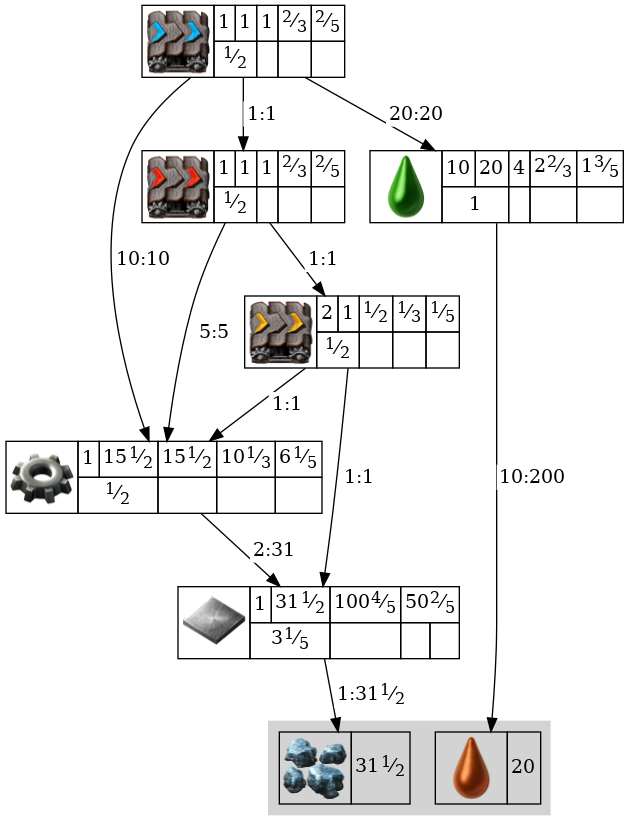
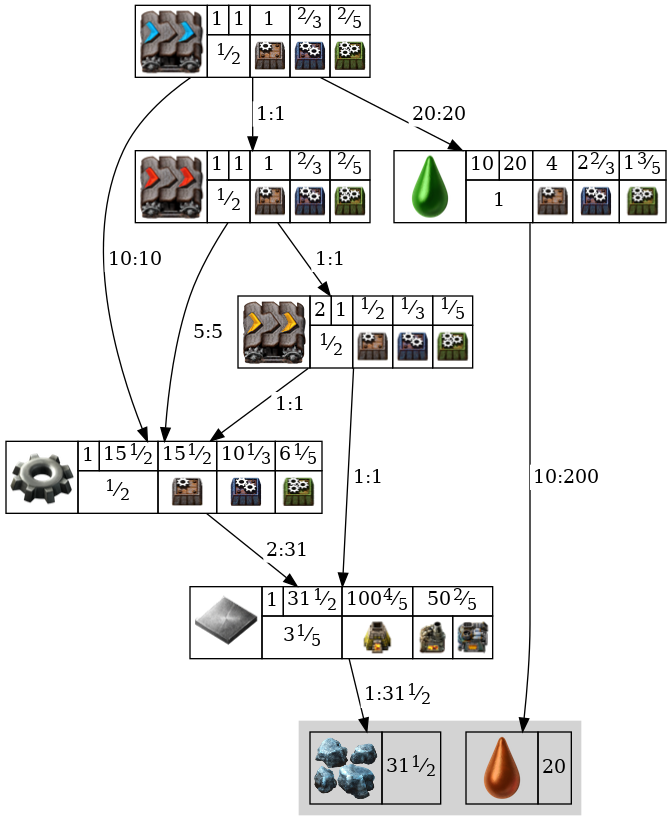
fix

Changed region(s): [[0.0, 0.0, 0.9968, 0.9928], [0.725, 0.8424, 0.876, 0.9928]]

diff --git a/index.ts b/index.ts
@@ -113,6 +113,17 @@ class FactorioLib {
 		// eslint-disable-next-line no-empty-function
 	) { }
 
+	async init() {
+		await Promise.all([
+			'Stone_furnace',
+			'Steel_furnace',
+			'Electric_furnace',
+			'Assembling_machine_1',
+			'Assembling_machine_2',
+			'Assembling_machine_3',
+		].map((name) => downloadImage(`https://wiki.factorio.com/images/thumb/${name}.png/32px-${name}.png`, this.prevPath)));
+	}
+
 	async addElementWithChildren(newURL: string): Promise<void> {
 		if (this.lib.has(newURL)) return;
 
@@ -256,11 +267,17 @@ npx ts-node .
 \`\`\`
 `;
 
+const verbose = (...message: any[]) => {
+	if (Number(process.env.VERBOSE)) {
+		console.log(...message);
+	}
+};
+
 const calcResult = async (url: string) => {
 	await factorioLib.addElementWithChildren(url);
-	console.dir(factorioLib, { depth: null });
+	verbose(factorioLib, { depth: null });
 	const g = factorioLib.makeGraphvis(url);
-	console.log(g.to_dot());
+	verbose(g.to_dot());
 	const id = factorioLib.lib.get(url)?.id || 'test';
 	const filename = `sp/${id}.png`;
 	g.output(
@@ -268,17 +285,22 @@ const calcResult = async (url: string) => {
 		filename,
 		console.error,
 	);
-	readme += `### ${id}\n![${id}](${filename})\n---\n`;
+	readme += `### ${id}\n[wiki](${url})\n![${id}](${filename})\n---\n`;
 };
 
 (async () => {
 	console.time('all');
+	console.time('init');
+	await factorioLib.init();
+	console.timeEnd('init');
 	for (const url of allURL) {
 		console.time(url);
 		// eslint-disable-next-line no-await-in-loop
 		await calcResult(url);
 		console.timeEnd(url);
 	}
+	console.time('readme');
 	fs.writeFileSync('README.md', readme);
+	console.timeEnd('readme');
 	console.timeEnd('all');
 })();

diff --git a/README.md b/README.md
@@ -3,53 +3,70 @@
 npx ts-node .
 ```
 ### Automation_science_pack
+[wiki](https://wiki.factorio.com/Automation_science_pack/ru)
 ![Automation_science_pack](sp/Automation_science_pack.png)
 ---
 ### Logistic_science_pack
+[wiki](https://wiki.factorio.com/Logistic_science_pack/ru)
 ![Logistic_science_pack](sp/Logistic_science_pack.png)
 ---
 ### Military_science_pack
+[wiki](https://wiki.factorio.com/Military_science_pack/ru)
 ![Military_science_pack](sp/Military_science_pack.png)
 ---
 ### Chemical_science_pack
+[wiki](https://wiki.factorio.com/Chemical_science_pack/ru)
 ![Chemical_science_pack](sp/Chemical_science_pack.png)
 ---
 ### Production_science_pack
+[wiki](https://wiki.factorio.com/Production_science_pack/ru)
 ![Production_science_pack](sp/Production_science_pack.png)
 ---
 ### Utility_science_pack
+[wiki](https://wiki.factorio.com/Utility_science_pack/ru)
 ![Utility_science_pack](sp/Utility_science_pack.png)
 ---
 ### Construction_robot
+[wiki](https://wiki.factorio.com/Construction_robot/ru)
 ![Construction_robot](sp/Construction_robot.png)
 ---
 ### Assembling_machine_1
+[wiki](https://wiki.factorio.com/Assembling_machine_1/ru)
 ![Assembling_machine_1](sp/Assembling_machine_1.png)
 ---
 ### Assembling_machine_2
+[wiki](https://wiki.factorio.com/Assembling_machine_2/ru)
 ![Assembling_machine_2](sp/Assembling_machine_2.png)
 ---
 ### Assembling_machine_3
+[wiki](https://wiki.factorio.com/Assembling_machine_3/ru)
 ![Assembling_machine_3](sp/Assembling_machine_3.png)
 ---
 ### Transport_belt
+[wiki](https://wiki.factorio.com/Transport_belt/ru)
 ![Transport_belt](sp/Transport_belt.png)
 ---
 ### Fast_transport_belt
+[wiki](https://wiki.factorio.com/Fast_transport_belt/ru)
 ![Fast_transport_belt](sp/Fast_transport_belt.png)
 ---
 ### Express_transport_belt
+[wiki](https://wiki.factorio.com/Express_transport_belt/ru)
 ![Express_transport_belt](sp/Express_transport_belt.png)
 ---
 ### Inserter
+[wiki](https://wiki.factorio.com/Inserter/ru)
 ![Inserter](sp/Inserter.png)
 ---
 ### Fast_inserter
+[wiki](https://wiki.factorio.com/Fast_inserter/ru)
 ![Fast_inserter](sp/Fast_inserter.png)
 ---
 ### Stack_inserter
+[wiki](https://wiki.factorio.com/Stack_inserter/ru)
 ![Stack_inserter](sp/Stack_inserter.png)
 ---
 ### Electric_mining_drill
+[wiki](https://wiki.factorio.com/Electric_mining_drill/ru)
 ![Electric_mining_drill](sp/Electric_mining_drill.png)
 ---
